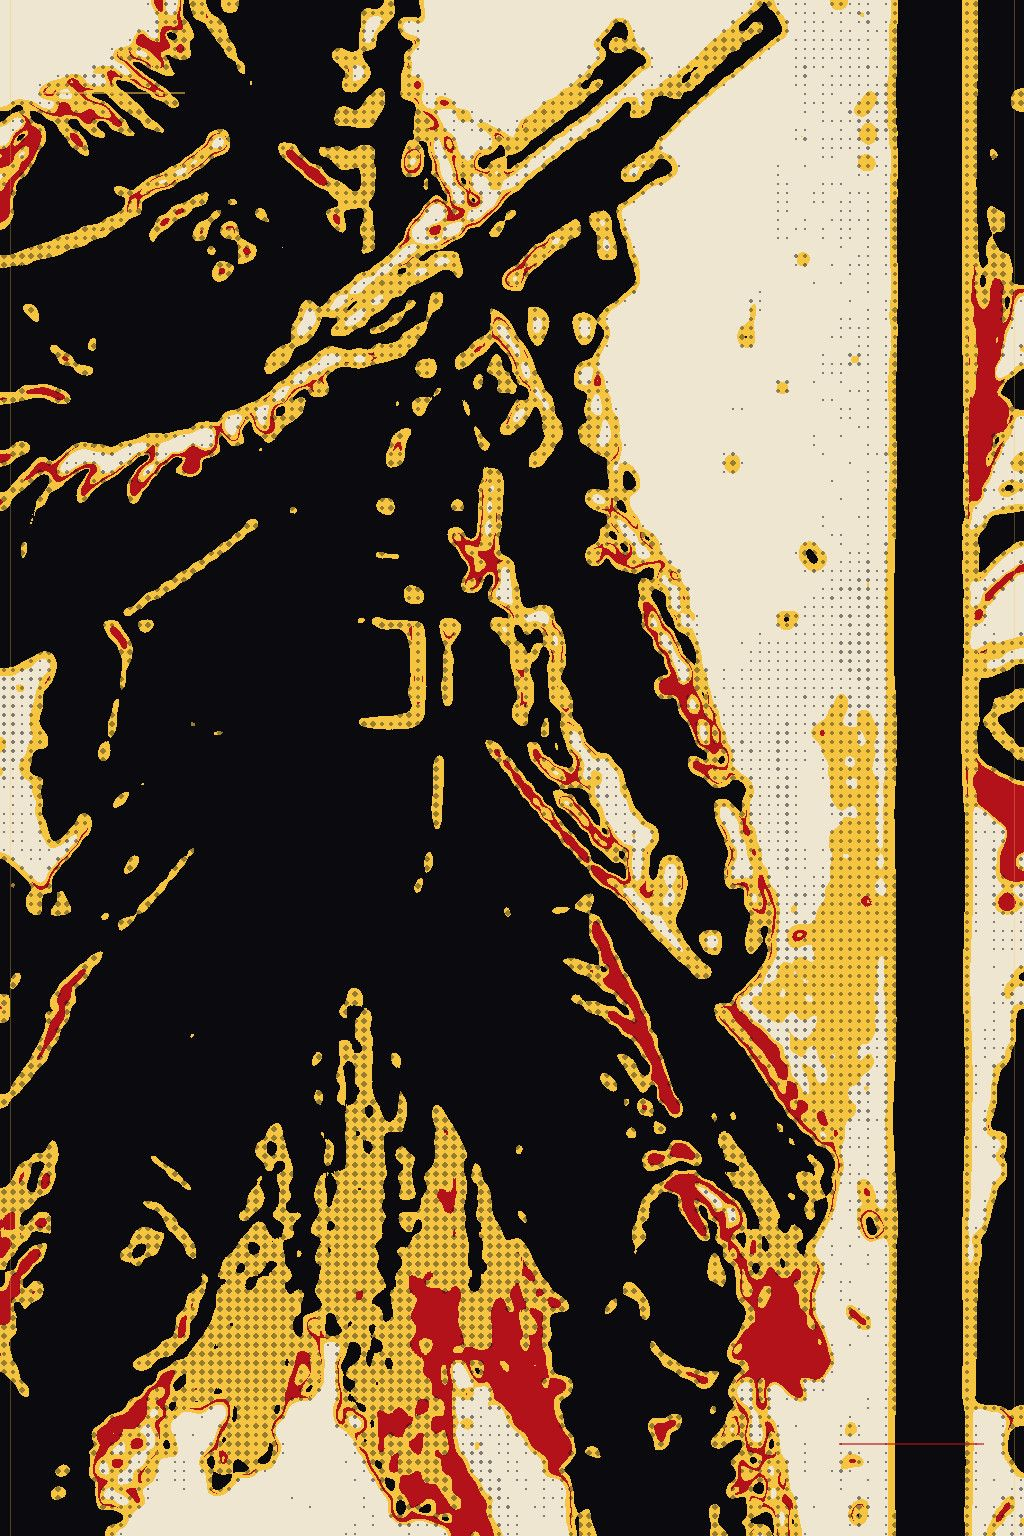
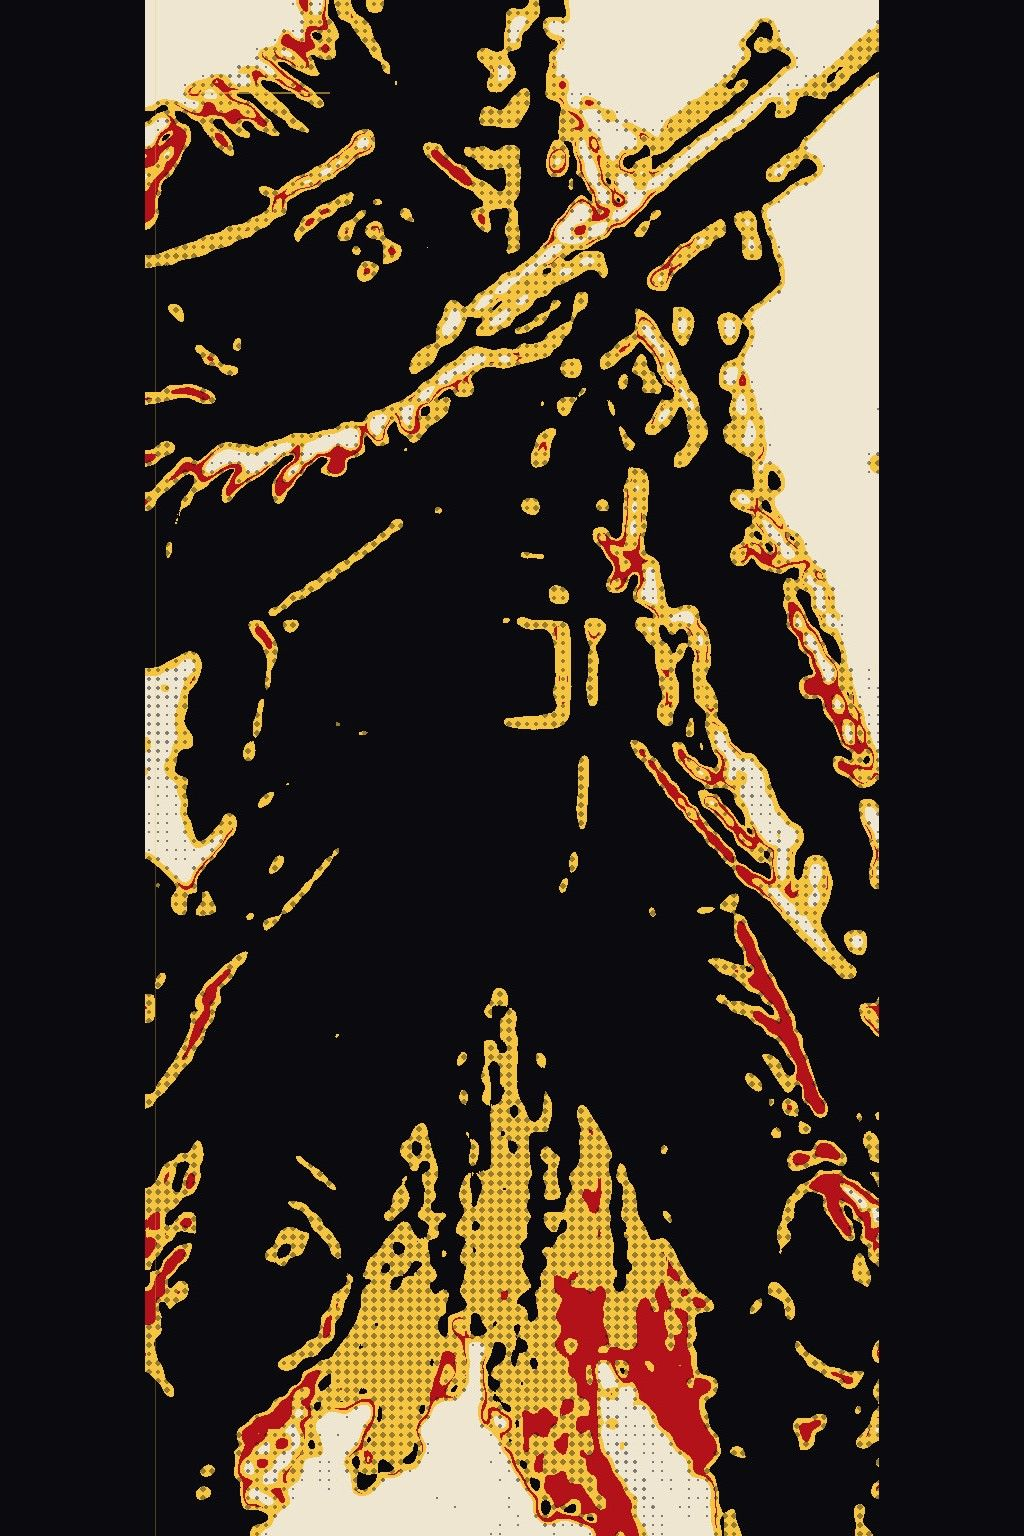
Retratos reenquadrados e cortes ancorados no topo
Atualiza 15 espécies, as 5 classes e a nebulosa com os arquivos recortados
de novo (sem pedaços da prancha vizinha) e usa object-top onde o cartão
corta a imagem, para não cortar cabeças.

Claude-Session: https://claude.ai/code/session_01LFD4vdFt2EcSB8vJUp5Sbh

diff --git a/src/components/ui/Portrait.tsx b/src/components/ui/Portrait.tsx
@@ -7,12 +7,12 @@ import { AssetImg } from './AssetImg'
 /** Retrato do personagem: imagem própria > retrato da espécie > arte SVG da espécie. */
 export function Portrait({ species, src, className }: { species: string; src?: string | null; className?: string }) {
   const box = clsx('aspect-square overflow-hidden border border-line-2 bg-black', className)
-  if (src) return <div className={box}><img src={src} alt="" className="h-full w-full object-cover" /></div>
+  if (src) return <div className={box}><img src={src} alt="" className="h-full w-full object-cover object-top" /></div>
   return (
     <div className={box}>
       <AssetImg
         path={species ? ASSET.species(species) : ASSET.blankPortrait}
-        className="h-full w-full object-cover"
+        className="h-full w-full object-cover object-top"
         fallback={<Svg html={ART.avatar(species)} className="block h-full w-full [&>svg]:h-full [&>svg]:w-full" />}
       />
     </div>

diff --git a/src/pages/regras/Secoes.tsx b/src/pages/regras/Secoes.tsx
@@ -241,7 +241,7 @@ export function SecaoClasses({ f }: { f: Filtro }) {
           <article key={id} className="panel flex min-w-0 flex-col gap-3">
             <div className="flex items-start gap-3">
               <div className="h-20 w-20 shrink-0 overflow-hidden border border-line-2 bg-black">
-                <AssetImg path={ASSET.cls(id)} className="h-full w-full object-cover"
+                <AssetImg path={ASSET.cls(id)} className="h-full w-full object-cover object-top"
                   fallback={<Svg html={ART.emblem(id)} className="block h-full w-full p-2 text-gold [&>svg]:h-full [&>svg]:w-full" />} />
               </div>
               <div className="min-w-0">

diff --git a/src/pages/mesa/BeastArt.tsx b/src/pages/mesa/BeastArt.tsx
@@ -21,7 +21,7 @@ const silOf = (name: string, side: string) =>
 export function BeastArt({ name, side = '', className }: { name: string; side?: string; className?: string }) {
   return (
     <div className={clsx('relative overflow-hidden border border-line-2 bg-black', className)}>
-      <AssetImg path={ASSET.beast(name)} alt={name} className="h-full w-full object-cover"
+      <AssetImg path={ASSET.beast(name)} alt={name} className="h-full w-full object-cover object-top"
         fallback={
           <svg viewBox="0 0 100 100" className="h-full w-full" role="img" aria-label={name}>
             <defs>

diff --git a/src/pages/criar/PassosBase.tsx b/src/pages/criar/PassosBase.tsx
@@ -83,7 +83,7 @@ function Emblema({ id, className }: { id: string; className?: string }) {
   return (
     <AssetImg
       path={ASSET.cls(id)}
-      className={clsx('aspect-[4/3] w-full object-cover', className)}
+      className={clsx('aspect-[4/3] w-full object-cover object-top', className)}
       fallback={<span className={clsx('grid aspect-[4/3] w-full place-items-center bg-black text-gold', className)}><Svg html={ART.emblem(id)} className="block w-1/2 [&>svg]:h-auto [&>svg]:w-full" /></span>}
     />
   )
